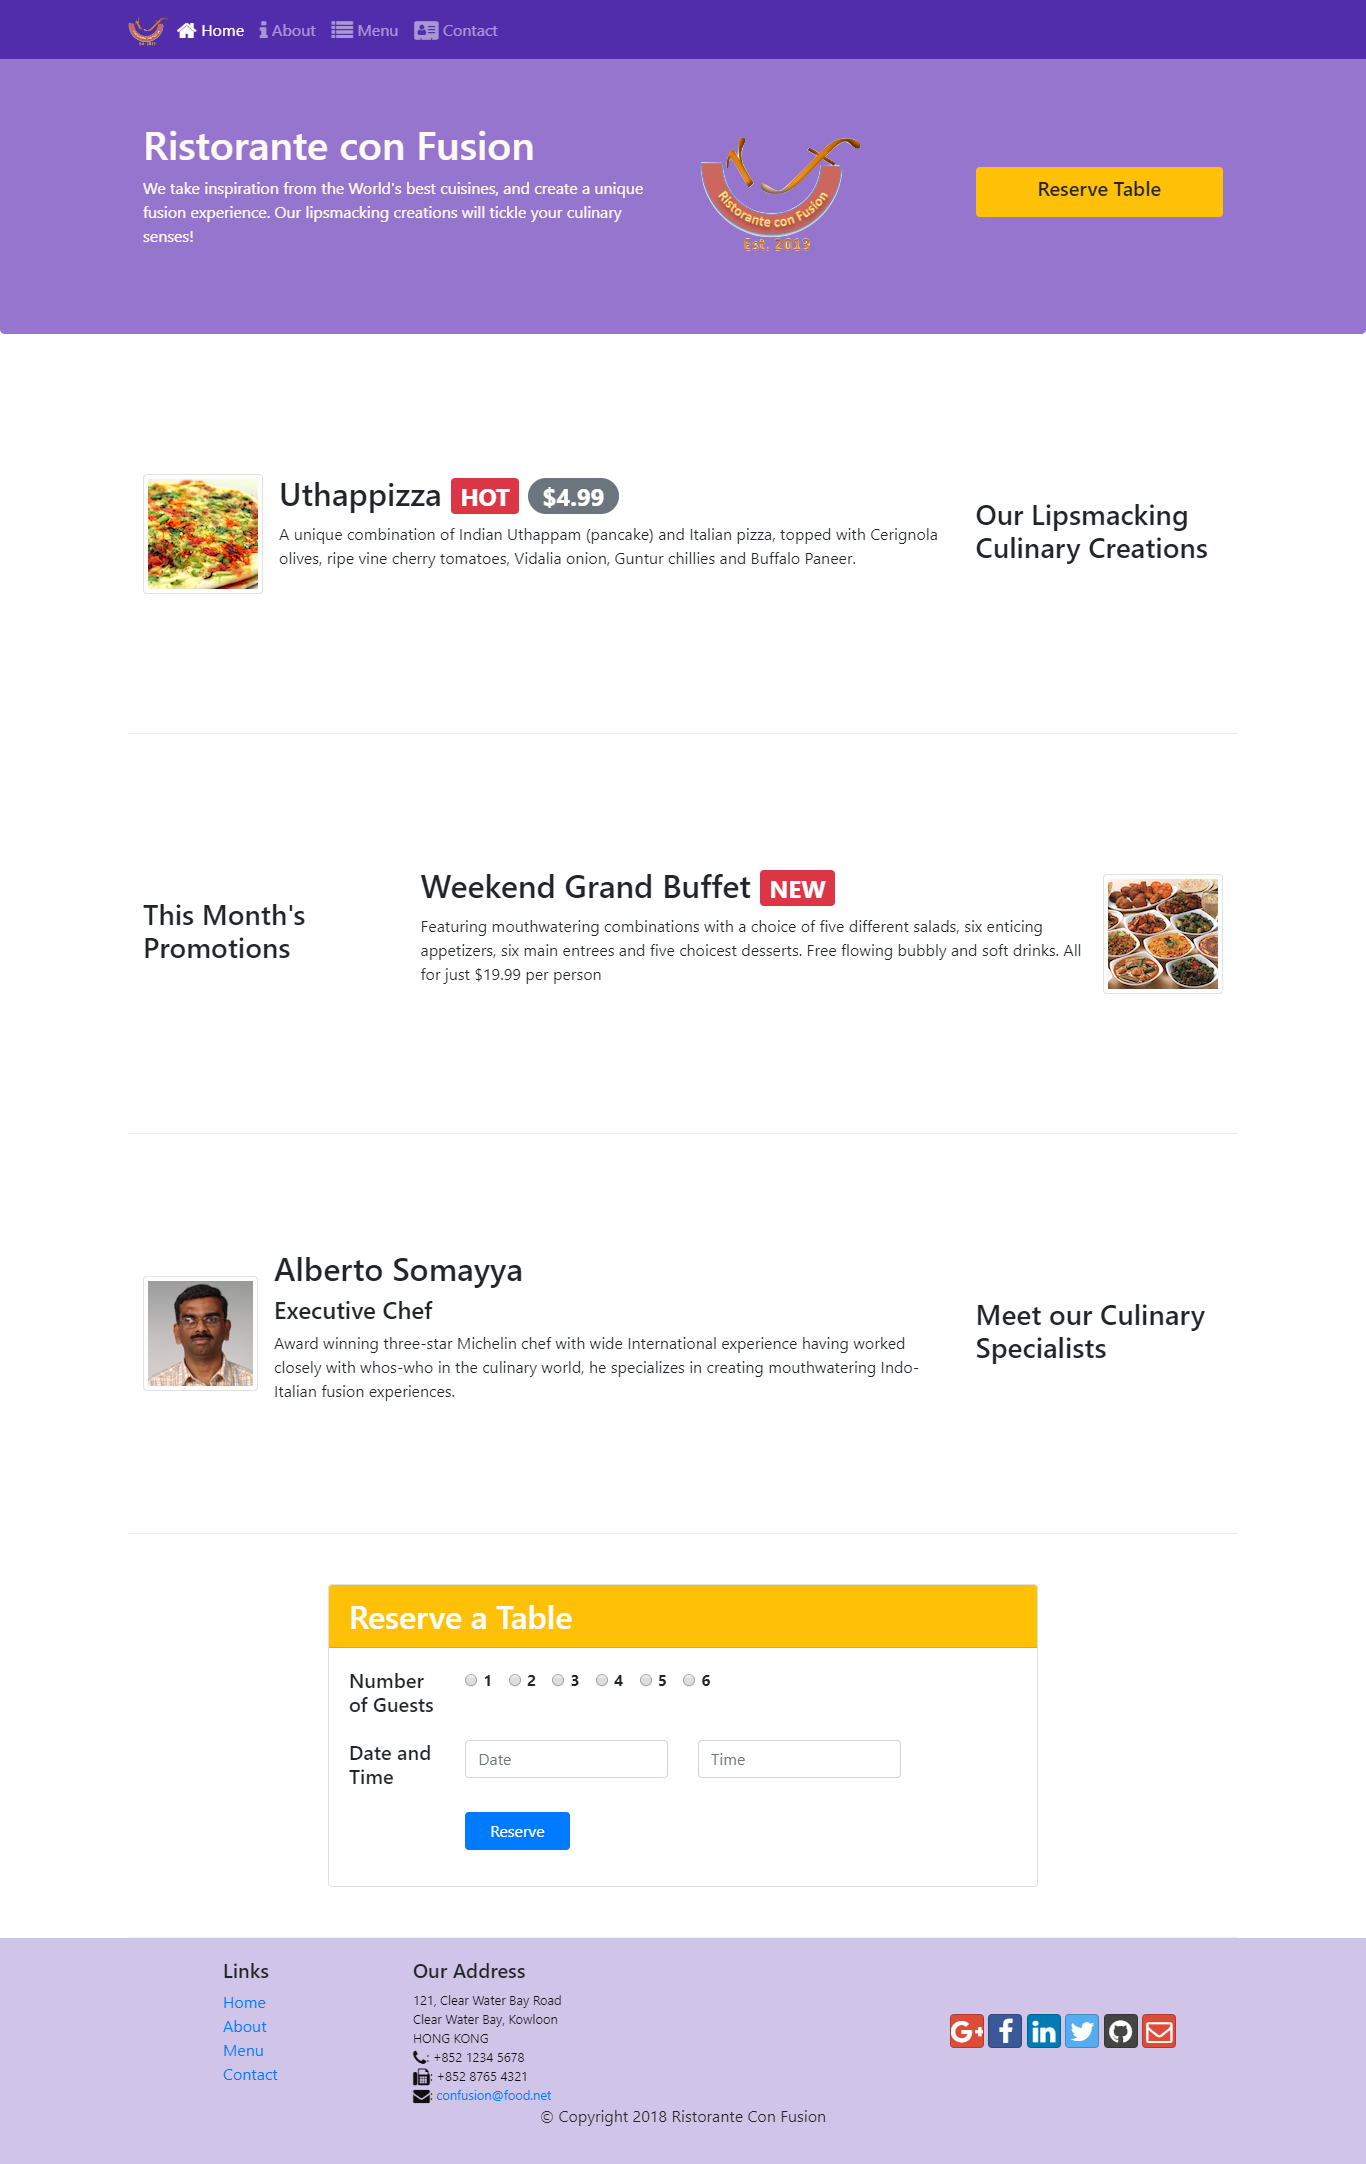
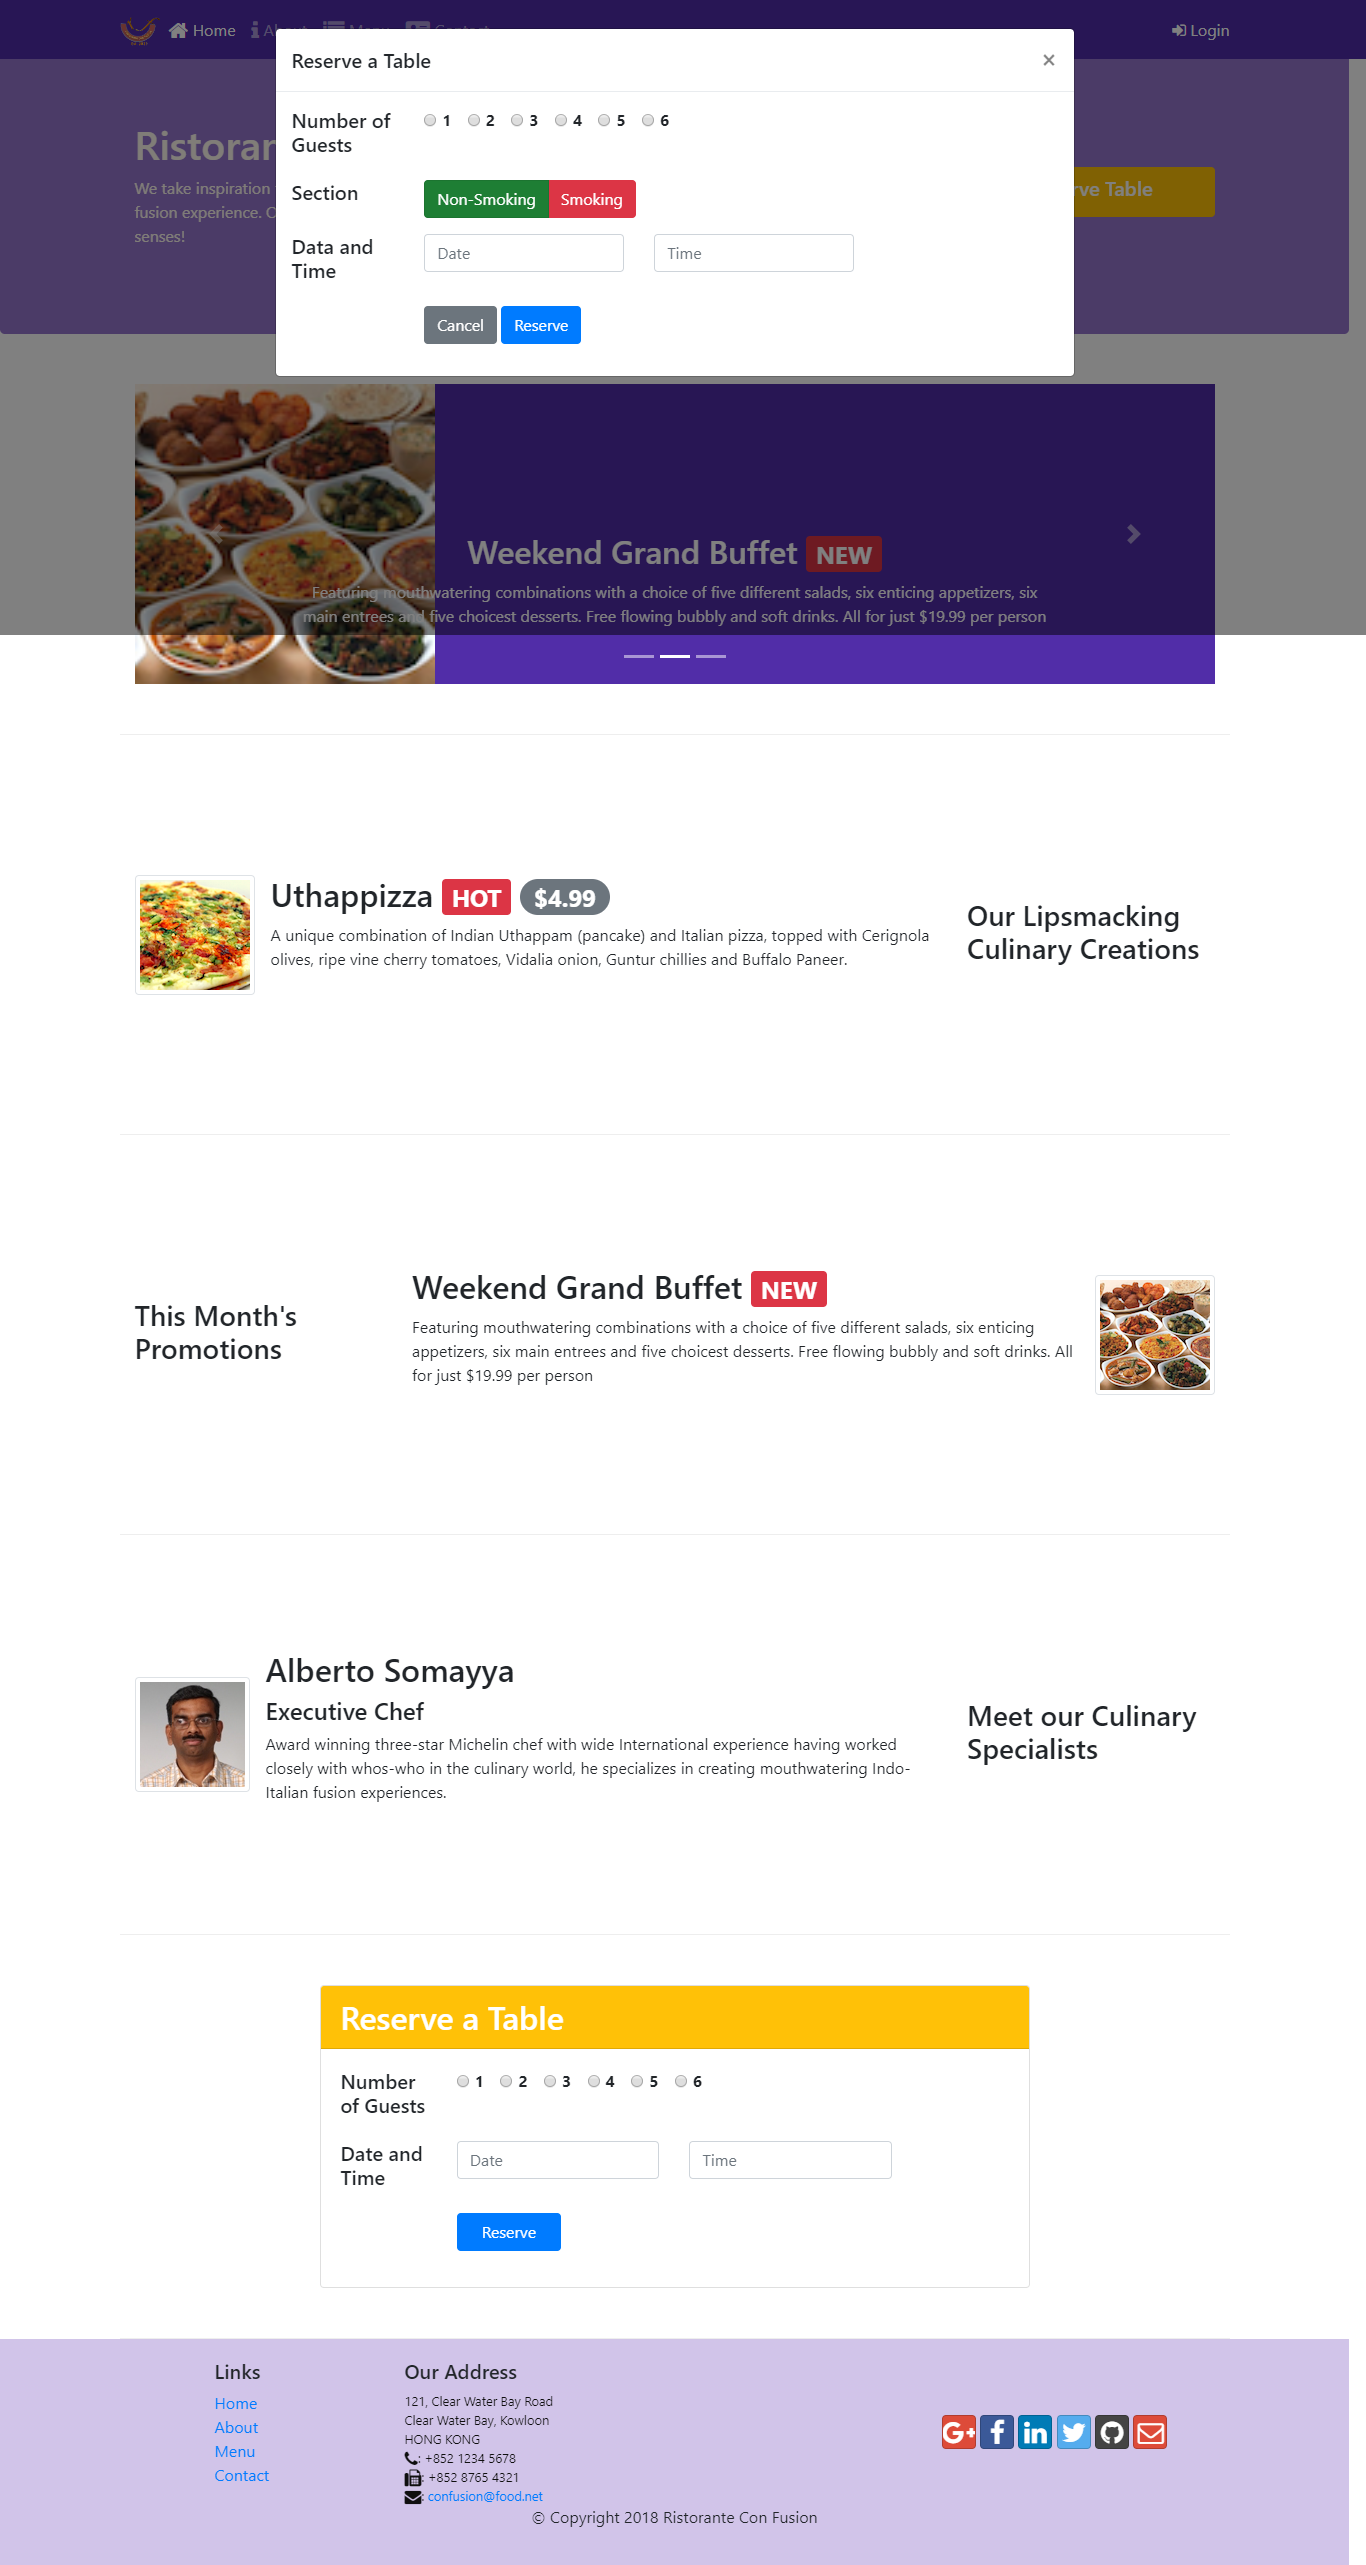
final

diff --git a/Front-End-Web-UI-Frameworks-and-Tools--Bootstrap-4/Week-3/conFusion/index.html b/Front-End-Web-UI-Frameworks-and-Tools--Bootstrap-4/Week-3/conFusion/index.html
@@ -131,42 +131,57 @@
                             <h5 class="col-sm-2">Number of Guests</h5>
                             <div class="col-sm-10">
                                 <div class="form-check form-check-inline">
-                                    <input class="form-check-input btn-primary" type="radio" name="radioGuests" id="radioGuests1" value="1">
+                                    <input class="form-check-input btn-primary" type="radio" name="modalRadioGuests" id="modalRadioGuests1" value="1">
                                     <label class="form-check-label" for="radioGuests"><strong>1</strong></label>
                                 </div>
                                 <div class="form-check form-check-inline">
-                                    <input class="form-check-input btn-primary" type="radio" name="radioGuests" id="radioGuests2" value="2">
+                                    <input class="form-check-input btn-primary" type="radio" name="modalRadioGuests" id="modalRadioGuests2" value="2">
                                     <label class="form-check-label" for="radioGuests"><strong>2</strong></label>
                                 </div>
                                 <div class="form-check form-check-inline">
-                                    <input class="form-check-input btn-primary" type="radio" name="radioGuests" id="radioGuest3" value="3">
+                                    <input class="form-check-input btn-primary" type="radio" name="modalRadioGuests" id="modalRadioGuests3" value="3">
                                     <label class="form-check-label" for="radioGuests"><strong>3</strong></label>
                                 </div>
                                 <div class="form-check form-check-inline">
-                                    <input class="form-check-input btn-primary" type="radio" name="radioGuests" id="radioGuest4" value="4">
+                                    <input class="form-check-input btn-primary" type="radio" name="modalRadioGuests" id="modalRadioGuests4" value="4">
                                     <label class="form-check-label" for="radioGuests"><strong>4</strong></label>
                                 </div>
                                 <div class="form-check form-check-inline">
-                                    <input class="form-check-input btn-primary" type="radio" name="radioGuests" id="RadioGuest5" value="5">
+                                    <input class="form-check-input btn-primary" type="radio" name="modalRadioGuests" id="modalRadioGuests5" value="5">
                                     <label class="form-check-label" for="radioGuests"><strong>5</strong></label>
                                 </div>
                                 <div class="form-check form-check-inline">
-                                    <input class="form-check-input btn-primary" type="radio" name="radioGuests" id="radioGuests6" value="6">
+                                    <input class="form-check-input btn-primary" type="radio" name="modalRadioGuests" id="modalRadioGuests6" value="6">
                                     <label class="form-check-label" for="radioGuests"><strong>6</strong></label>
                                 </div>
                             </div>
                         </div>
+                        
+                        <div class="form-group row">
+                            <h5 class="col-sm-2">Section</h5>
+                            <div class="btn-group btn-group-toggle col-sm-10" data-toggle="buttons">
+                                <label for="smokeSection" class="btn btn-success active">
+                                    <input type="radio" name="smokeSection" class="form-check-input"  value="Non-Smoking">Non-Smoking
+                                </label>
+                            
+                                <label for="smokeSection" class="btn btn-danger">
+                                    <input type="radio" name="smokeSection" class="form-check-input" value="Smoking">Smoking
+                                </label>
+                            </div>
+                        </div>
+
                         <div class="form-group row">
                             <h5 class="col-sm-2">Data and Time</h5>
-                            <div class="col-sm-4">
+                            <div class="col-sm-auto">
                                 <input type="text" class="form-control" name="modalDate" placeholder="Date">
                             </div>
-                            <div class="col-sm-4">
+                            <div class="col-sm-auto">
                                 <input type="text" class="form-control" name="modalTime" placeholder="Time">
                             </div>
                         </div>
+                        
                         <div class="form-group row">
-                            <div class="col-sm-auto offset-2">
+                            <div class="offset-sm-2 col-sm-10">
                                 <button type="button" class="btn btn-secondary" data-dismiss="modal">
                                     Cancel
                                 </button>
@@ -174,7 +189,6 @@
                                     Reserve
                                 </button>
                             </div>
-                            
                         </div>
                     </form>
                 </div>
